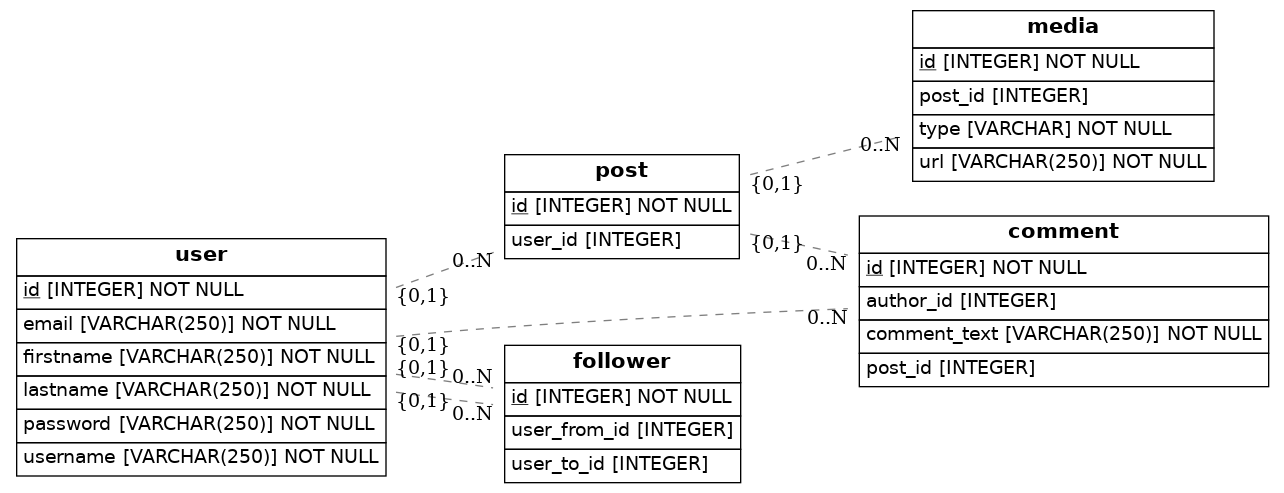
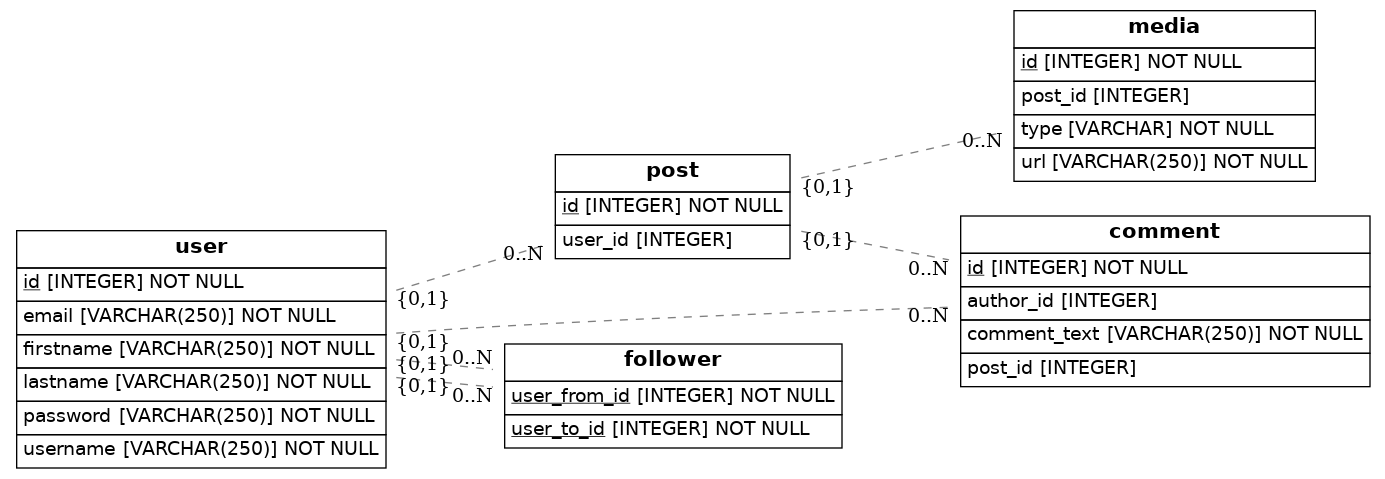
Fix

diff --git a/src/models.py b/src/models.py
@@ -48,9 +48,8 @@ class Media(Base):
 class Follower(Base):
     __tablename__ = 'follower'
     
-    id = Column(Integer, primary_key=True)
-    user_from_id = Column(Integer, ForeignKey("user.id"))
-    user_to_id = Column(Integer, ForeignKey("user.id"))
+    user_from_id = Column(Integer, ForeignKey("user.id"),  primary_key=True)
+    user_to_id = Column(Integer, ForeignKey("user.id"),  primary_key=True)
     user = relationship(User)
 
 ## Draw from SQLAlchemy base
